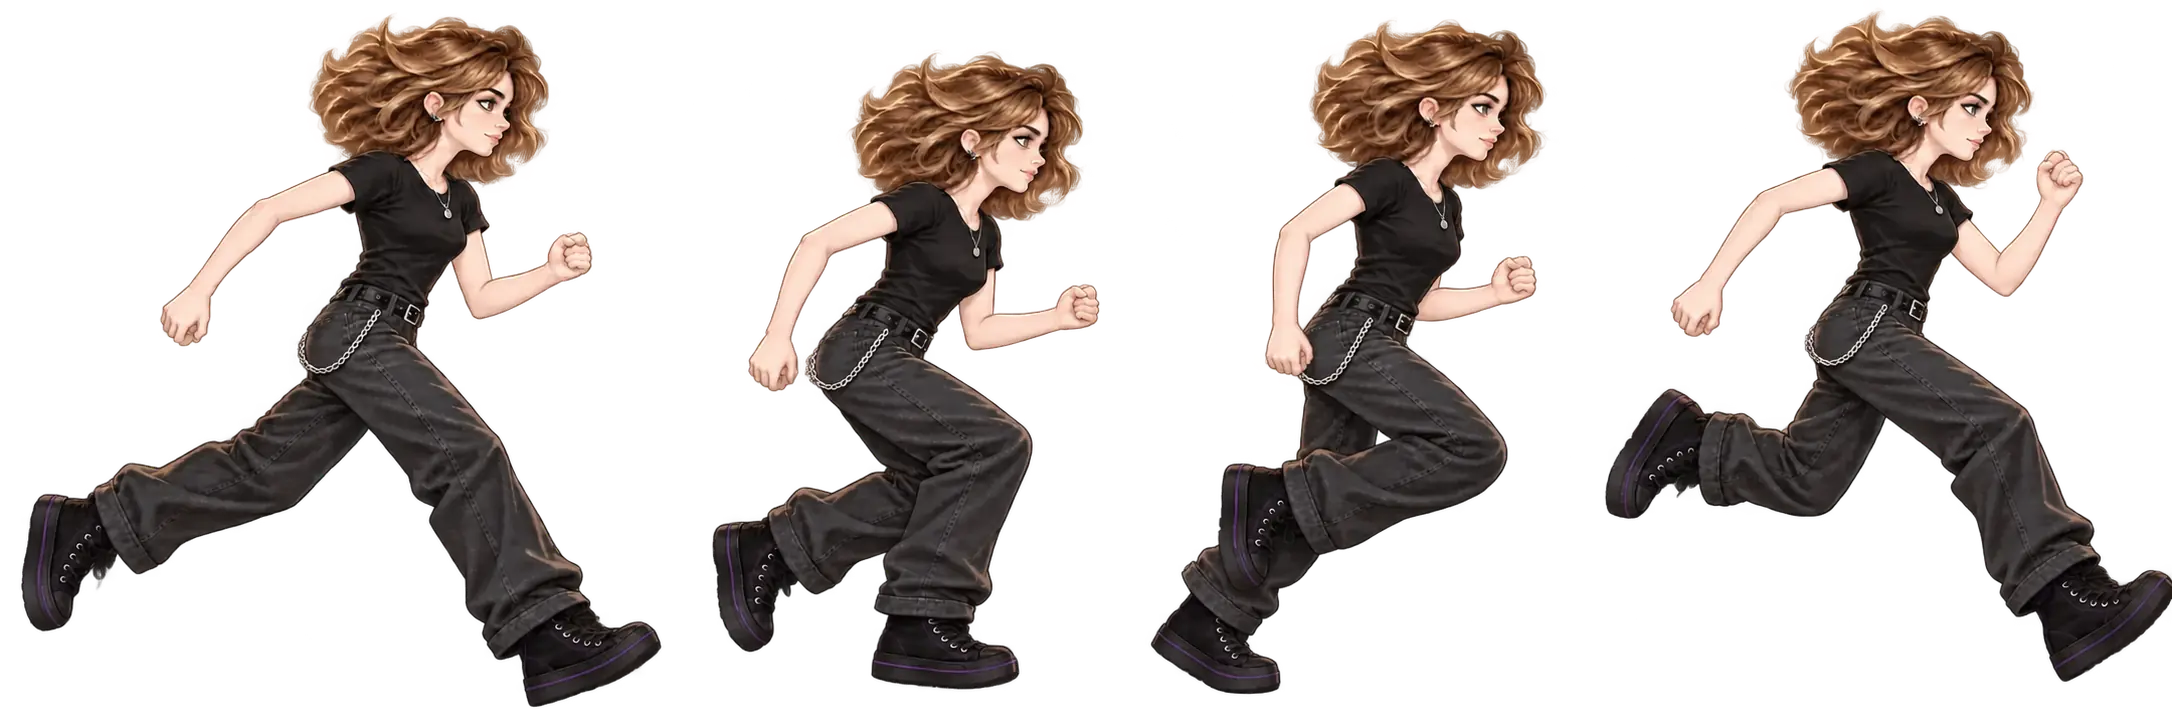
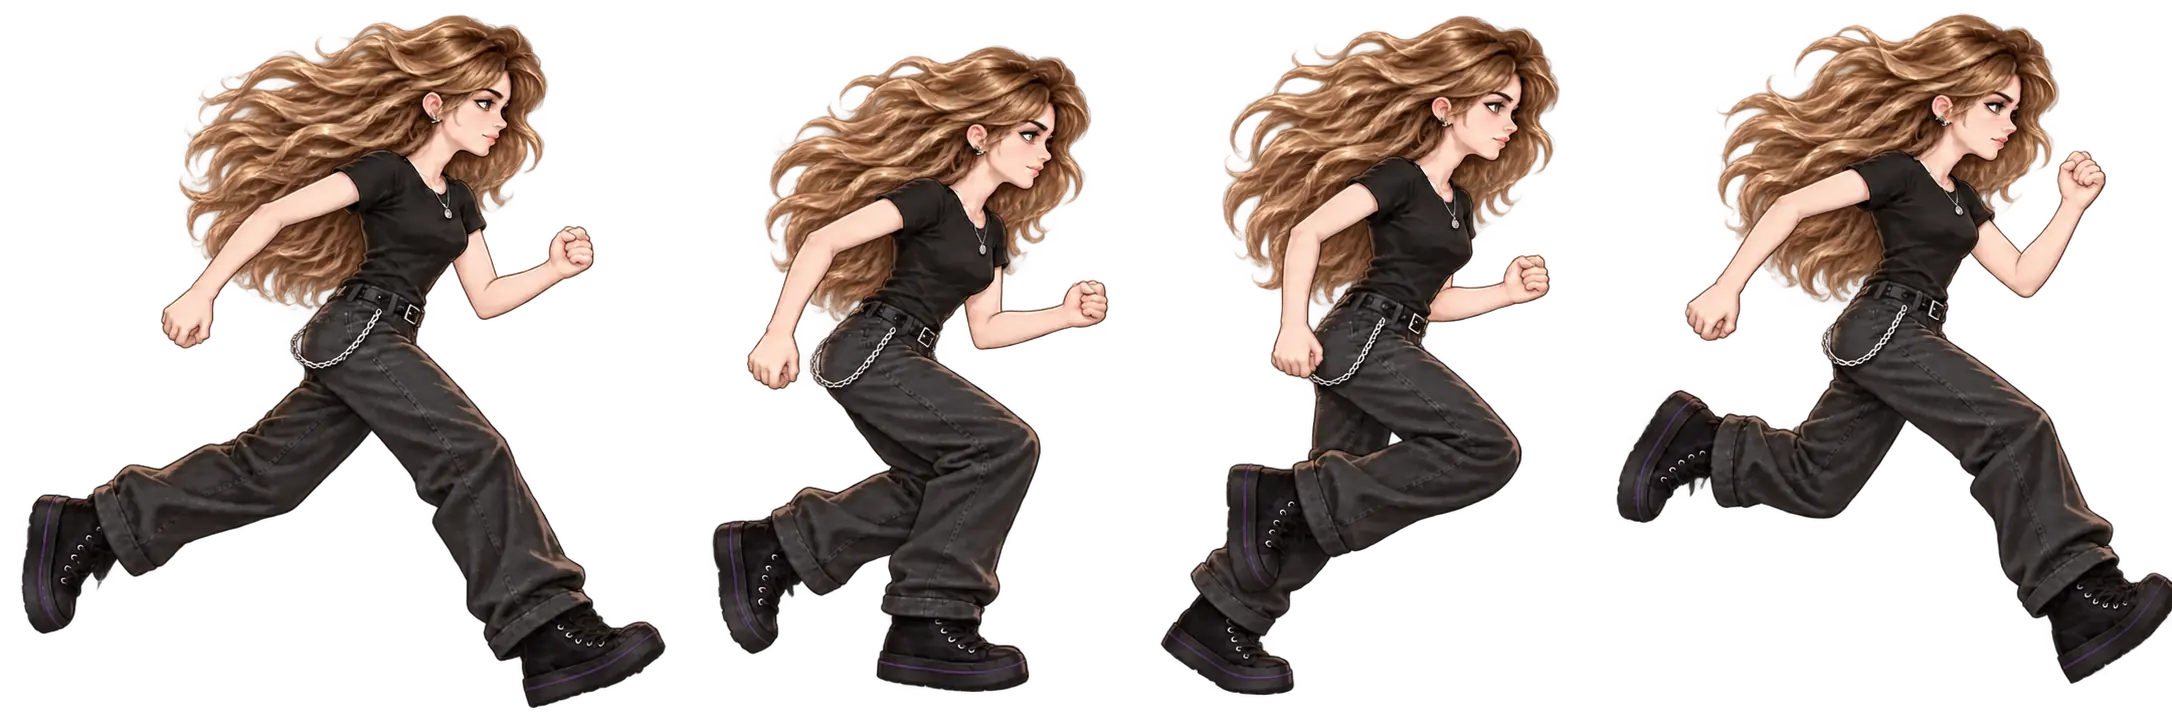
Refine character hair and smooth run cycles

diff --git a/game.js b/game.js
@@ -719,7 +719,7 @@ function drawPlayer() {
   if (state.current === "A" && state.mode === "chaos") { w = 260; h = w * (img.naturalHeight / img.naturalWidth); }
   const motion = creatureMotion();
   if (runningHuman || movingAnimal) {
-    motion.frameIndex = !state.grounded && state.mode !== "flight" ? 3 : Math.floor(state.motionPhase * (state.mode === "flight" ? 1.5 : .9)) % 4;
+    motion.frameIndex = !state.grounded && state.mode !== "flight" ? 3 : (state.motionPhase * (state.mode === "flight" ? 1.5 : .9)) % 4;
     motion.frameCount = 4;
   }
   if (state.current === "E" && state.mode === "flight") motion.wave = 5;
@@ -827,10 +827,22 @@ function drawCreature(img, w, h, motion) {
     ctx.shadowBlur = 28;
   }
 
-  if (Number.isInteger(motion.frameIndex)) {
+  if (state.current === "E" && state.mode === "human" && !motion.ghost) drawLongHair(w, h);
+
+  if (Number.isFinite(motion.frameIndex)) {
     const frameCount = motion.frameCount || 1;
     const sourceW = img.naturalWidth / frameCount;
-    ctx.drawImage(img, motion.frameIndex * sourceW, 0, sourceW, img.naturalHeight, -w * .5, -h * .78, w, h);
+    const framePosition = ((motion.frameIndex % frameCount) + frameCount) % frameCount;
+    const firstFrame = Math.floor(framePosition);
+    const blend = (framePosition - firstFrame) ** 2 * (3 - 2 * (framePosition - firstFrame));
+    const baseAlpha = ctx.globalAlpha;
+    ctx.globalAlpha = baseAlpha * (1 - blend);
+    ctx.drawImage(img, firstFrame * sourceW, 0, sourceW, img.naturalHeight, -w * .5, -h * .78, w, h);
+    if (blend > .001) {
+      ctx.globalAlpha = baseAlpha * blend;
+      ctx.drawImage(img, ((firstFrame + 1) % frameCount) * sourceW, 0, sourceW, img.naturalHeight, -w * .5, -h * .78, w, h);
+    }
+    ctx.globalAlpha = baseAlpha;
   } else if (motion.wave && !motion.ghost) {
     const strips = 14;
     const sourceW = img.naturalWidth / strips;
@@ -841,6 +853,33 @@ function drawCreature(img, w, h, motion) {
     }
   } else {
     ctx.drawImage(img, -w * .5, -h * .78, w, h);
+  }
+  ctx.restore();
+}
+
+function drawLongHair(w, h) {
+  const sway = Math.sin(state.motionPhase * .78) * w * .025;
+  const fill = ctx.createLinearGradient(-w * .3, -h * .78, w * .12, -h * .42);
+  fill.addColorStop(0, "#090d16");
+  fill.addColorStop(.55, "#171c28");
+  fill.addColorStop(1, "#272e3b");
+  ctx.save();
+  ctx.fillStyle = fill;
+  ctx.beginPath();
+  ctx.moveTo(w * .12, -h * .83);
+  ctx.bezierCurveTo(-w * .02, -h * .88, -w * .14, -h * .81, -w * .19 + sway, -h * .70);
+  ctx.bezierCurveTo(-w * .23 + sway, -h * .58, -w * .34 + sway, -h * .49, -w * .28 + sway, -h * .37);
+  ctx.bezierCurveTo(-w * .21 + sway, -h * .45, -w * .15 + sway, -h * .51, -w * .09, -h * .62);
+  ctx.bezierCurveTo(-w * .01, -h * .73, w * .05, -h * .74, w * .12, -h * .83);
+  ctx.closePath();
+  ctx.fill();
+  ctx.strokeStyle = "rgba(126,143,164,.58)";
+  ctx.lineWidth = Math.max(1, w * .012);
+  for (let i = 0; i < 3; i++) {
+    ctx.beginPath();
+    ctx.moveTo(w * (.04 - i * .035), -h * (.77 - i * .02));
+    ctx.bezierCurveTo(-w * .10 + sway, -h * .68, -w * .27 + sway, -h * .55, -w * (.23 + i * .025) + sway, -h * (.41 + i * .025));
+    ctx.stroke();
   }
   ctx.restore();
 }

diff --git a/style.css b/style.css
@@ -78,6 +78,7 @@ button:focus-visible { outline: 3px solid #fff; outline-offset: 3px; }
 .card-initial { display: grid; place-items: center; width: 43px; aspect-ratio: 1; border-radius: 14px; color: #0d1020; background: var(--accent); font-size: 1.35rem; font-weight: 950; }
 .card-age { color: var(--muted); font-size: .7rem; font-weight: 800; text-transform: uppercase; letter-spacing: .1em; }
 .form-art { position: absolute; inset: 55px 5% 83px; background-image: var(--human-image); background-repeat: no-repeat; background-size: contain; background-position: center; filter: drop-shadow(0 18px 12px rgba(0,0,0,.36)); transition: opacity .2s, transform .5s; }
+.character-card[data-id="E"]:not(.flight):not(.chaos) .form-art::before { content: ""; position: absolute; left: 31%; top: 19%; width: 17%; height: 34%; border-radius: 42% 48% 56% 52%; background: linear-gradient(115deg, #090d15, #1b202d 60%, #303747); transform: rotate(16deg); box-shadow: inset 5px 1px 0 rgba(127,145,168,.22); }
 .character-card.flight .form-art { background-image: var(--flight-image); }
 .character-card.chaos .form-art { background-image: var(--chaos-image); transform: scale(1.02); }
 .card-copy { position: absolute; z-index: 2; inset: auto 18px 17px; }
